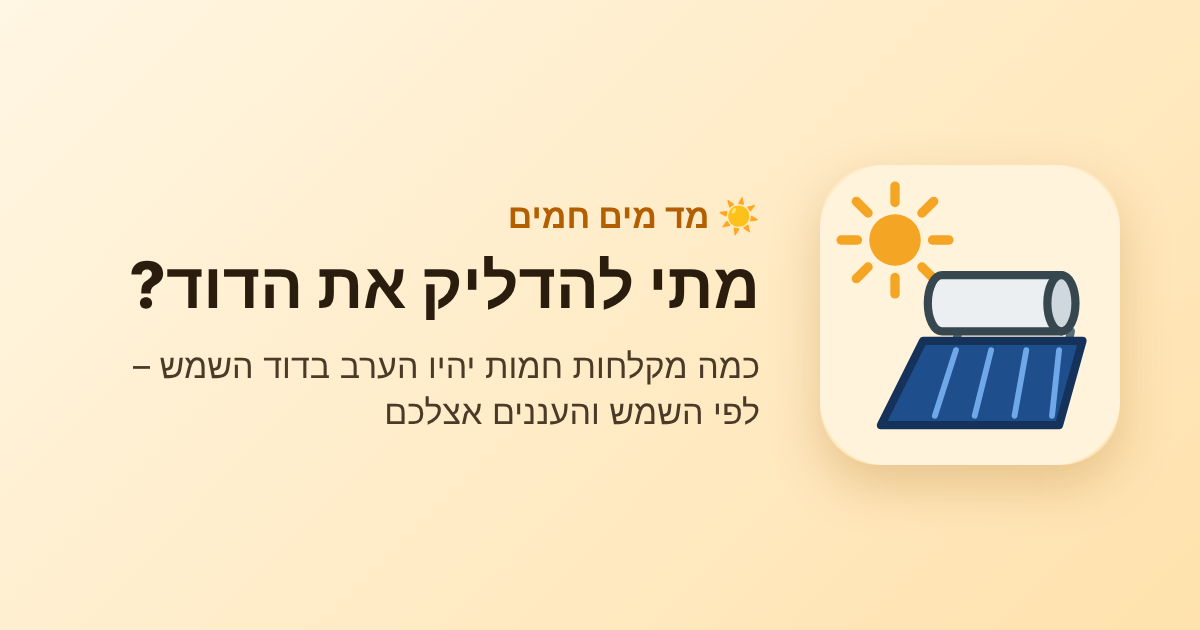
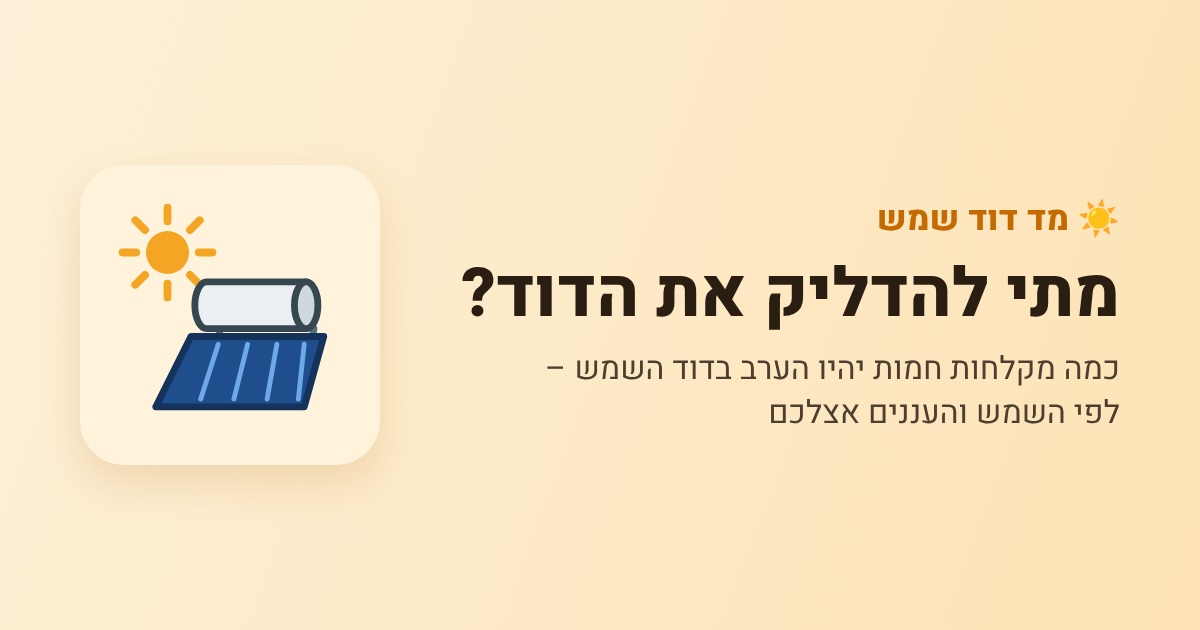
Rename to 'מד דוד שמש' and move to bambiker.github.io/solarwatermeter (#55)
- Site name everywhere (titles, header, manifest name/short name, share text, structured data, FAQ/contact,
  Apps Script mail subject and new sheet names) and a new sharing image
- Canonical/og URLs, sitemap, manifest related_applications and GitHub links point to the new address
- The 'installed' flag is kept per address (sites on one github.io share storage), so the new address
  offers installation even though the old one was installed

Claude-Session: https://claude.ai/code/session_01A878FpUuqkGyXUMMGEhbjG

Changed region(s): [[0.0925, 0.2413, 0.9558, 0.7841], [0.4008, 0.3317, 0.6475, 0.3619], [0.0925, 0.7238, 0.2775, 0.754]]

diff --git a/index.html b/index.html
@@ -12,16 +12,16 @@
 </script>
 <meta charset="utf-8">
 <meta name="viewport" content="width=device-width, initial-scale=1">
-<title>מתי להדליק את הדוד? מחשבון דוד שמש לפי מזג האוויר | מד מים חמים</title>
+<title>מתי להדליק את הדוד? מחשבון דוד שמש לפי מזג האוויר | מד דוד שמש</title>
 <meta name="description" content="כמה מקלחות חמות יהיו הערב בדוד השמש? מחשבון חינמי לפי השמש והעננים אצלכם: כמה דקות להדליק את הדוד החשמלי, מתי הכי כדאי להתקלח – ולומד את הדוד והמשפחה שלכם.">
-<link rel="canonical" href="https://bambiker.github.io/hotwatermeter/">
+<link rel="canonical" href="https://bambiker.github.io/solarwatermeter/">
 <meta property="og:type" content="website">
 <meta property="og:locale" content="he_IL">
-<meta property="og:site_name" content="מד מים חמים">
-<meta property="og:title" content="מתי להדליק את הדוד? מחשבון דוד שמש לפי מזג האוויר | מד מים חמים">
+<meta property="og:site_name" content="מד דוד שמש">
+<meta property="og:title" content="מתי להדליק את הדוד? מחשבון דוד שמש לפי מזג האוויר | מד דוד שמש">
 <meta property="og:description" content="כמה מקלחות חמות יהיו הערב בדוד השמש? מחשבון חינמי לפי השמש והעננים אצלכם: כמה דקות להדליק את הדוד החשמלי, מתי הכי כדאי להתקלח – ולומד את הדוד והמשפחה שלכם.">
-<meta property="og:url" content="https://bambiker.github.io/hotwatermeter/">
-<meta property="og:image" content="https://bambiker.github.io/hotwatermeter/og-image.png">
+<meta property="og:url" content="https://bambiker.github.io/solarwatermeter/">
+<meta property="og:image" content="https://bambiker.github.io/solarwatermeter/og-image.png">
 <meta property="og:image:width" content="1200">
 <meta property="og:image:height" content="630">
 <meta name="twitter:card" content="summary_large_image">
@@ -322,8 +322,8 @@
 {
  "@context": "https://schema.org",
  "@type": "WebApplication",
- "name": "מד מים חמים",
- "url": "https://bambiker.github.io/hotwatermeter/",
+ "name": "מד דוד שמש",
+ "url": "https://bambiker.github.io/solarwatermeter/",
  "inLanguage": "he",
  "applicationCategory": "UtilitiesApplication",
  "operatingSystem": "Any",
@@ -338,7 +338,7 @@
 </head>
 <body data-tab="today">
 <main>
-  <h1><img src="logo.svg" alt="" class="logo">מד מים חמים<button type="button" id="install" class="install" hidden>📲 התקנה</button></h1>
+  <h1><img src="logo.svg" alt="" class="logo">מד דוד שמש<button type="button" id="install" class="install" hidden>📲 התקנה</button></h1>
   <div id="installHelp" class="card install-help" hidden></div>
   <p class="sub" data-pane="today">האתר בודק כמה שמש הייתה היום, ומכך מסיק לכמה אנשים יספיק דוד השמש.<br>ככל שתשתמשו באתר יותר, הוא יכיר אתכם יותר וידייק את התחזית שלו.<br><a href="faq.html">שאלות ותשובות ❓</a></p>
 
@@ -385,7 +385,7 @@
 
   <section class="about" data-pane="today">
     <h2>מחשבון דוד שמש: כמה מים חמים יהיו הערב?</h2>
-    <p>מד מים חמים בודק את תחזית השמש והעננים במקום שלכם (נתוני <a href="https://open-meteo.com/" target="_blank" rel="noopener">Open-Meteo</a>), ומעריך כמה הדוד מתחמם היום ולכמה מקלחות חמות הוא יספיק הערב – בלי להדליק את הדוד החשמלי.</p>
+    <p>מד דוד שמש בודק את תחזית השמש והעננים במקום שלכם (נתוני <a href="https://open-meteo.com/" target="_blank" rel="noopener">Open-Meteo</a>), ומעריך כמה הדוד מתחמם היום ולכמה מקלחות חמות הוא יספיק הערב – בלי להדליק את הדוד החשמלי.</p>
     <ul>
       <li><b>מתי להדליק את הדוד וכמה זמן</b> – אם הערב לא יספיק לכולם, האתר אומר כמה דקות להדליק לפני המקלחות.</li>
       <li><b>מתי הכי כדאי להתקלח</b> – כשעוד יש שמש, מקלחת במהלך היום משאירה זמן לשמש לחמם את הדוד מחדש עד הערב.</li>
@@ -807,7 +807,7 @@
   (() => {
     if ('serviceWorker' in navigator && location.protocol === 'https:') navigator.serviceWorker.register('sw.js').catch(() => {});
     const btn = document.getElementById('install'), help = document.getElementById('installHelp');
-    const KEY = 'hwm.installed';
+    const KEY = 'hwm.installed:' + location.pathname.replace(/[^/]*$/, ''); // per address: sites on one github.io share storage
     const mark = () => { try { localStorage.setItem(KEY, '1'); } catch {} };
     const hide = () => { btn.hidden = true; help.hidden = true; };
     if (matchMedia('(display-mode: standalone)').matches || navigator.standalone) { mark(); return; } // this is the app
@@ -838,7 +838,7 @@
   })();
 </script>
 <!-- ?v= changes with each release, so a phone never pairs a new page with an old cached script -->
-<script src="config.js?v=20261029a"></script>
-<script src="family.js?v=20261029a"></script>
+<script src="config.js?v=20261102a"></script>
+<script src="family.js?v=20261102a"></script>
 </body>
 </html>

diff --git a/faq.html b/faq.html
@@ -12,16 +12,16 @@
 </script>
 <meta charset="utf-8">
 <meta name="viewport" content="width=device-width, initial-scale=1">
-<title>שאלות ותשובות על דוד שמש: כמה זמן להדליק דוד ומתי להתקלח | מד מים חמים</title>
+<title>שאלות ותשובות על דוד שמש: כמה זמן להדליק דוד ומתי להתקלח | מד דוד שמש</title>
 <meta name="description" content="כמה זמן להדליק את הדוד, כמה זה עולה, להדליק לפני כל אחד או לכולם, באיזו שעה הכי כדאי להתקלח, לכמה אנשים מספיק דוד של 150 ליטר, ולמה בחורף הדוד מתחמם פחות.">
-<link rel="canonical" href="https://bambiker.github.io/hotwatermeter/faq.html">
+<link rel="canonical" href="https://bambiker.github.io/solarwatermeter/faq.html">
 <meta property="og:type" content="website">
 <meta property="og:locale" content="he_IL">
-<meta property="og:site_name" content="מד מים חמים">
-<meta property="og:title" content="שאלות ותשובות על דוד שמש: כמה זמן להדליק דוד ומתי להתקלח | מד מים חמים">
+<meta property="og:site_name" content="מד דוד שמש">
+<meta property="og:title" content="שאלות ותשובות על דוד שמש: כמה זמן להדליק דוד ומתי להתקלח | מד דוד שמש">
 <meta property="og:description" content="כמה זמן להדליק את הדוד, כמה זה עולה, להדליק לפני כל אחד או לכולם, באיזו שעה הכי כדאי להתקלח, לכמה אנשים מספיק דוד של 150 ליטר, ולמה בחורף הדוד מתחמם פחות.">
-<meta property="og:url" content="https://bambiker.github.io/hotwatermeter/faq.html">
-<meta property="og:image" content="https://bambiker.github.io/hotwatermeter/og-image.png">
+<meta property="og:url" content="https://bambiker.github.io/solarwatermeter/faq.html">
+<meta property="og:image" content="https://bambiker.github.io/solarwatermeter/og-image.png">
 <meta property="og:image:width" content="1200">
 <meta property="og:image:height" content="630">
 <meta name="twitter:card" content="summary_large_image">
@@ -225,7 +225,7 @@
 <main>
   <h1><img src="logo.svg" alt="" class="logo">שאלות ותשובות</h1>
   <p class="sub">על דוד שמש, דוד חשמלי ומקלחות. המספרים הם לדוד ממוצע של <span dir="ltr">150</span> ליטר עם גוף חימום של <span dir="ltr">2.5 kW</span> – בדוד שלכם הם יהיו שונים, ובאתר הם מחושבים ונלמדים לפי הדוד שלכם.</p>
-  <a class="back" href="./">→ חזרה למד מים חמים</a>
+  <a class="back" href="./">→ חזרה למד דוד שמש</a>
 
   <h2>⚡ הדוד החשמלי</h2>
 
@@ -408,7 +408,7 @@
     </div>
   </details>
 
-  <footer><a href="./">→ חזרה למד מים חמים</a> · לא מצאתם תשובה? <a href="contact.html">✉ צרו קשר</a></footer>
+  <footer><a href="./">→ חזרה למד דוד שמש</a> · לא מצאתם תשובה? <a href="contact.html">✉ צרו קשר</a></footer>
 </main>
 <script>
   // A link from the site (faq.html#best-time) opens that answer

diff --git a/contact.html b/contact.html
@@ -12,16 +12,16 @@
 </script>
 <meta charset="utf-8">
 <meta name="viewport" content="width=device-width, initial-scale=1">
-<title>צרו קשר | מד מים חמים</title>
-<meta name="description" content="שאלה, הצעה לשיפור או תקלה במחשבון דוד השמש "מד מים חמים" – כתבו לנו.">
-<link rel="canonical" href="https://bambiker.github.io/hotwatermeter/contact.html">
+<title>צרו קשר | מד דוד שמש</title>
+<meta name="description" content="שאלה, הצעה לשיפור או תקלה במחשבון דוד השמש "מד דוד שמש" – כתבו לנו.">
+<link rel="canonical" href="https://bambiker.github.io/solarwatermeter/contact.html">
 <meta property="og:type" content="website">
 <meta property="og:locale" content="he_IL">
-<meta property="og:site_name" content="מד מים חמים">
-<meta property="og:title" content="צרו קשר | מד מים חמים">
-<meta property="og:description" content="שאלה, הצעה לשיפור או תקלה במחשבון דוד השמש "מד מים חמים" – כתבו לנו.">
-<meta property="og:url" content="https://bambiker.github.io/hotwatermeter/contact.html">
-<meta property="og:image" content="https://bambiker.github.io/hotwatermeter/og-image.png">
+<meta property="og:site_name" content="מד דוד שמש">
+<meta property="og:title" content="צרו קשר | מד דוד שמש">
+<meta property="og:description" content="שאלה, הצעה לשיפור או תקלה במחשבון דוד השמש "מד דוד שמש" – כתבו לנו.">
+<meta property="og:url" content="https://bambiker.github.io/solarwatermeter/contact.html">
+<meta property="og:image" content="https://bambiker.github.io/solarwatermeter/og-image.png">
 <meta property="og:image:width" content="1200">
 <meta property="og:image:height" content="630">
 <meta name="twitter:card" content="summary_large_image">
@@ -85,7 +85,7 @@
 <main>
   <h1><img src="logo.svg" alt="" class="logo">צרו קשר</h1>
   <p class="sub">שאלה, הצעה לשיפור, משהו שלא עובד או לא ברור? נשמח לשמוע. אפשר גם לבדוק קודם ב<a href="faq.html">שאלות ותשובות</a>.</p>
-  <a class="back" href="./">→ חזרה למד מים חמים</a>
+  <a class="back" href="./">→ חזרה למד דוד שמש</a>
 
   <form id="contact" novalidate>
     <label>שם (לא חובה)<input id="name" autocomplete="name" maxlength="100"></label>
@@ -102,7 +102,7 @@
   </div>
   <p class="note">ההודעה נשלחת למפעיל האתר. אם צירפתם מייל – נענה אליו.</p>
 
-  <footer><a href="./">→ חזרה למד מים חמים</a> · <a href="faq.html">שאלות ותשובות</a></footer>
+  <footer><a href="./">→ חזרה למד דוד שמש</a> · <a href="faq.html">שאלות ותשובות</a></footer>
 </main>
 <script src="config.js"></script>
 <script>

diff --git a/family.js b/family.js
@@ -1352,7 +1352,7 @@
         <details class="adv" ${HOSTED_URL ? '' : 'open'}>
           <summary>${HOSTED_URL ? 'מתקדם: ' : ''}שרת משלכם (גיליון Google בבעלותכם)</summary>
           <p class="note">הקמה חד-פעמית של כ-5 דקות:
-            <a href="https://github.com/bambiker/hotwatermeter/blob/main/apps-script/README.md" target="_blank" rel="noopener">הוראות הקמה</a>.</p>
+            <a href="https://github.com/bambiker/solarwatermeter/blob/main/apps-script/README.md" target="_blank" rel="noopener">הוראות הקמה</a>.</p>
           <div class="grid-inputs">
             <label>כתובת ה-Web App<input id="syncUrl" type="url" dir="ltr" placeholder="https://script.google.com/macros/s/…/exec"></label>
             <label>מפתח<input id="syncKey" dir="ltr" autocomplete="off"></label>
@@ -1564,7 +1564,7 @@
       const blob = new Blob([JSON.stringify({ cfg, fam }, null, 2)], { type: 'application/json' });
       const a = document.createElement('a');
       a.href = URL.createObjectURL(blob);
-      a.download = 'hotwatermeter.json';
+      a.download = 'solarwatermeter.json';
       a.click();
       setTimeout(() => URL.revokeObjectURL(a.href), 1000);
     } else if (b.id === 'resetLearn') {
@@ -1607,7 +1607,7 @@
     } else if (b.id === 'shareLink') {
       const url = joinLink();
       const done = (t) => { $('shareMsg').textContent = t; };
-      if (navigator.share) navigator.share({ title: 'מד מים חמים', text: 'הצטרפות ליומן המקלחות של המשפחה', url }).catch(() => {});
+      if (navigator.share) navigator.share({ title: 'מד דוד שמש', text: 'הצטרפות ליומן המקלחות של המשפחה', url }).catch(() => {});
       else navigator.clipboard.writeText(url).then(() => done('הקישור הועתק ✓ – שלחו אותו לבני המשפחה'), () => done(url));
     }
   });

diff --git a/README.md b/README.md
@@ -1,4 +1,4 @@
-# hotwatermeter
+# solarwatermeter – מד דוד שמש
 
 אתר סטטי (+ דפי [שאלות ותשובות](faq.html) ו[צרו קשר](contact.html)) שמושך מ-[Open-Meteo](https://open-meteo.com/) את קרינת השמש ומזג האוויר, ומעריך **כמה הדוד מתחמם** – היום מול אתמול – ומי יכול להתקלח בלי להדליק דוד.
 
@@ -50,4 +50,4 @@
 - כותרת, תיאור, כתובת קנונית ותגיות שיתוף (Open Graph, `og-image.png`) בכל דף; נתונים מובנים: `WebApplication` בדף הראשי ו-`FAQPage` בשאלות ותשובות.
 - **אחרי עריכת `faq.html`** מריצים `python3 tools/build_faq_ld.py` כדי לעדכן את הנתונים המובנים לפי השאלות בדף.
 - **התקנה כאפליקציה**: כפתור "📲 התקנה" בכותרת (Chrome/Android – חלון התקנה; אייפון – הוראות). `sw.js` מאפשר התקנה ופתיחה בלי רשת (רשת קודם, ואם אין – העותק האחרון; לא שומר נתוני מזג אוויר או יומן).
-- `sitemap.xml` – מגישים ב-Google Search Console (נכס מסוג URL prefix: `https://bambiker.github.io/hotwatermeter/`). `robots.txt` לא נוסף כי הוא פועל רק בשורש הדומיין.
+- `sitemap.xml` – מגישים ב-Google Search Console (נכס מסוג URL prefix: `https://bambiker.github.io/solarwatermeter/`). `robots.txt` לא נוסף כי הוא פועל רק בשורש הדומיין.

diff --git a/apps-script/README.md b/apps-script/README.md
@@ -7,7 +7,7 @@
 פעם אחת, כ-5 דקות, ממחשב.
 
 ## 1. גיליון + סקריפט
-1. פותחים גיליון חדש: https://sheets.new (אפשר לקרוא לו "מד מים חמים").
+1. פותחים גיליון חדש: https://sheets.new (אפשר לקרוא לו "מד דוד שמש").
 2. בתפריט: **Extensions → Apps Script** (תוספים → Apps Script).
 3. מוחקים את מה שיש בקובץ `Code.gs` ומדביקים במקומו את כל התוכן של
    [`Code.gs`](Code.gs) מהתיקייה הזו. שומרים (Ctrl+S).
